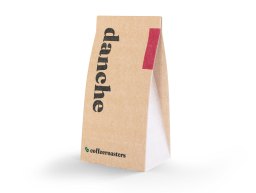
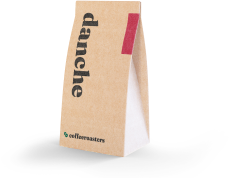
transfer the images to the retrina screen

Changed region(s): [[0.2085, 0.0, 0.6851, 0.8989]]

diff --git a/index.html b/index.html
@@ -49,22 +49,22 @@
         <section>
             <ul class="collection">
                 <li class="collection__info">
-                    <img class="collection__info__img" src="./img/gran.png" alt="cofee names">
+                    <img class="collection__info__img" src="./img/kopi1 copy.png" alt="cofee names" srcset="./img/kopi1copy.png 1x, ./img/kopi1copy2@.png 2x">
                     <h2 class="collection__info__title">Gran Espresso</h2>
                     <p class="collection_      _info__desc">Light and flavorful blend with cocoa and black pepper for an intense experience</p>
                 </li>
                 <li class="collection__info">
-                    <img class="collection__info__img" src="./img/kopi2.png" alt="cofee names">
+                    <img class="collection__info__img" src="./img/kopi2.png" alt="cofee names" srcset="./img/kopi2.png 1x, ./img/kopi2@2x.png 2x">
                     <h2 class="collection__info__title">Planalto</h2>
                     <p class="collection__info__desc">Light and flavorful blend with cocoa and black pepper for an intense experience</p>
                 </li>
                 <li class="collection__info">
-                    <img class="collection__info__img" src="./img/kopi3.png" alt="cofee names">
+                    <img class="collection__info__img" src="./img/kopi3.png" alt="cofee names" srcset="./img/kopi3.png 1x, ./img/kopi3@2x.png 2x">
                     <h2 class="collection__info__title">Piccollo</h2>
                     <p class="collection__info__desc">Light and flavorful blend with cocoa and black pepper for an intense experience</p>
                 </li>
                 <li class="collection__info">
-                    <img class="collection__info__img" src="./img/kopi4.png" alt="cofee names">
+                    <img class="collection__info__img" src="./img/kopi4.png" alt="cofee names" srcset="./img/kopi3.png 1x, ./img/kopi3@2x.png 2x">
                     <h2 class="collection__info__title">Danche</h2>
                     <p class="collection__info__desc">Light and flavorful blend with cocoa and black pepper for an intense experience</p>
                 </li>
@@ -150,5 +150,3 @@
        </footer>
 </body>
 </html>
-
-img[src="https://picsum.photos/400?random=$ alt="rasm" width="400" height="400"]*8

diff --git a/css/main.css b/css/main.css
@@ -187,6 +187,8 @@
 
 .boxes__box__img{
     padding-top: 72px;
+    width: 255px;
+    height: 193px;
 }
 
 .boxes__box__title{
